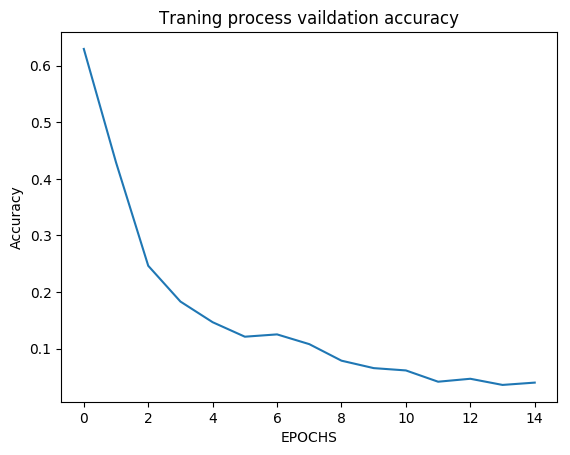
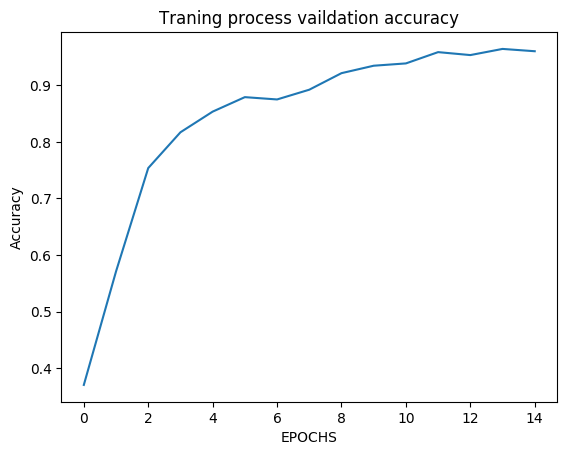
Project3: Corrected training validation accuracy picture

diff --git a/Project-3-Traffic-Sign-Classifier/writeup_template.md b/Project-3-Traffic-Sign-Classifier/writeup_template.md
@@ -166,7 +166,8 @@ Results:
 
 If an iterative approach was chosen:
 
-* First, I used the MNIST classifier LeNet architecture
+* First, I used the MNIST classifier LeNet architecture.
+* I increased the depth of the first two convolution layer to 60
 * When the saw that the model overfits after 10 epochs, I added the first dropout layer after the first fully connected layer.
 
 ![german_sign_predicitons](writeup_images/traning_process_validation_acc.png)
